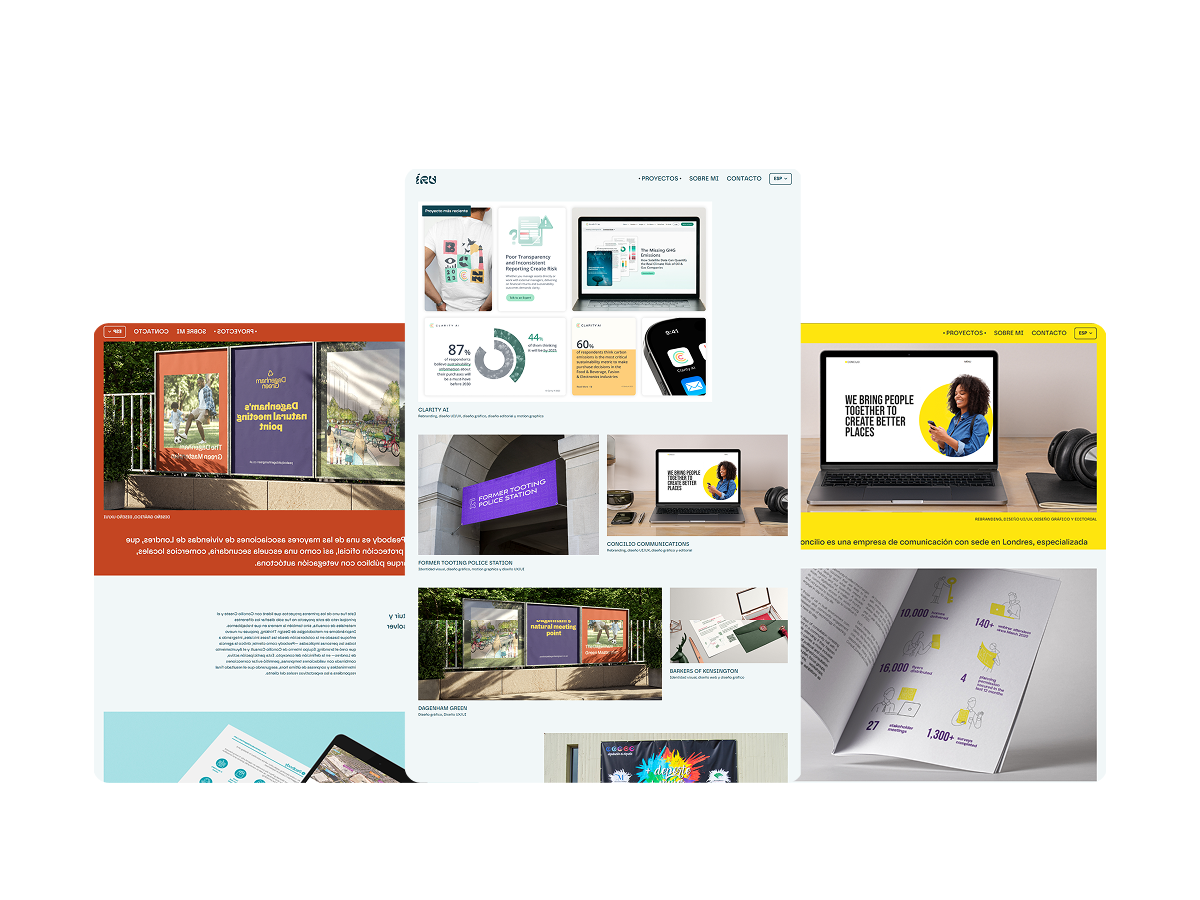
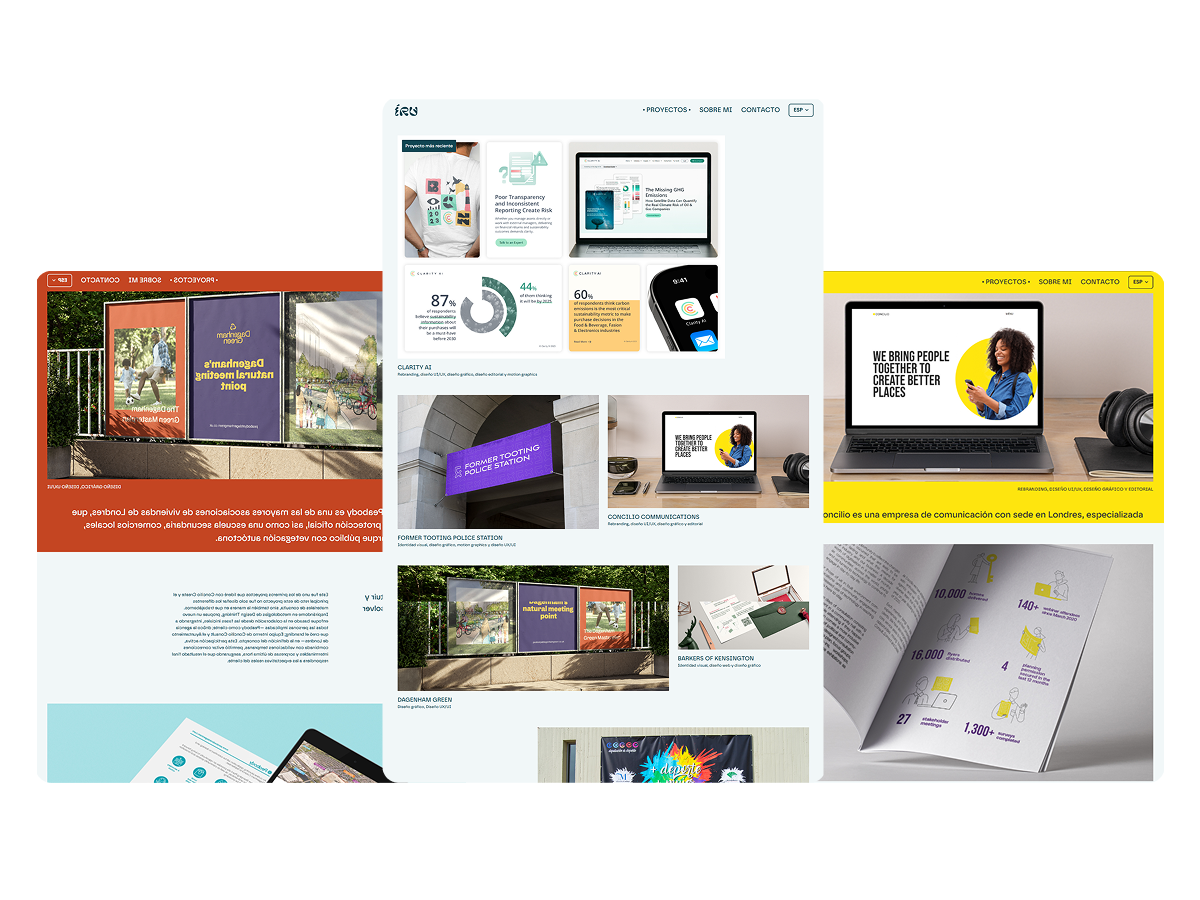
feat(projects): add Fitness Booking and the real Irudesigner image
Fitness Booking is a personal class-booking platform for a training box;
it lands as the second card. The irudesigner.png committed earlier was a
149-byte broken file that rendered as an empty frame, and is replaced
with the real export. Stack, year and links are still missing for both.

diff --git a/src/app/shared/data/portfolio.data.ts b/src/app/shared/data/portfolio.data.ts
@@ -181,6 +181,20 @@ export const PROJECTS: ProjectSource[] = [
     image: 'assets/images/irudesigner.png'
   },
   {
+    id: 'fitness-booking',
+    title: 'Fitness Booking',
+    category: {
+      es: 'App de reserva de clases',
+      en: 'Class booking app'
+    },
+    description: {
+      es: 'Proyecto personal: plataforma para reservar clases en un box de entrenamiento.',
+      en: 'Personal project: a platform for booking classes at a training box.'
+    },
+    tags: [],
+    image: 'assets/images/fitness-booking.png'
+  },
+  {
     id: 'joseadu-portfolio',
     title: 'joseadu.com',
     category: {
